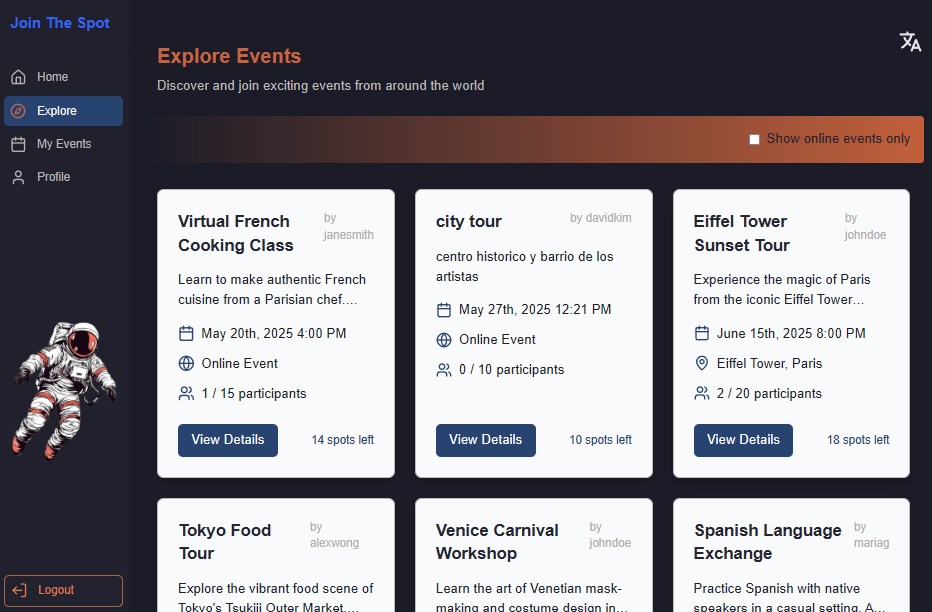
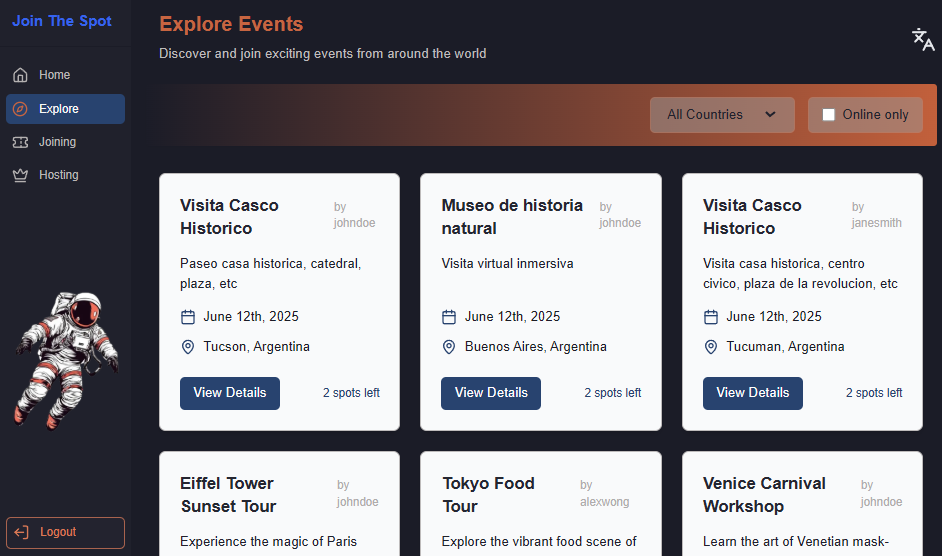
docs: update README. update screenshots. Minor title update in dashboard page.

diff --git a/src/app/api/events/my-events/route.ts b/src/app/api/events/my-events/route.ts
@@ -10,10 +10,16 @@ const getMyEventsHandler: RouteHandler<MyEventsParams> = async (
   params
 ): Promise<NextResponse<MyEventsResponse | ErrorResponse>> => {
   try {
+    // Extract query parameters from the URL
+    const { searchParams } = new URL(req.url);
+    const timeFilter = searchParams.get("timeFilter") as "all" | "future" | "past" | null;
+    const orderBy = searchParams.get("orderBy") as "asc" | "desc" | null;
+
     const events = await getEventsByCreator(userData.userId, {
-      timeFilter: params?.timeFilter || "all",
-      orderBy: params?.orderBy || "asc",
+      timeFilter: timeFilter || "all",
+      orderBy: orderBy || "asc",
     });
+
     return NextResponse.json(events);
   } catch (error) {
     console.error("Error fetching user events:", error);

diff --git a/src/app/[locale]/dashboard/page.tsx b/src/app/[locale]/dashboard/page.tsx
@@ -212,7 +212,7 @@ export default function DashboardHome() {
             <p className="text-lunar-300">Your upcoming events calendar will appear here.</p>
           </div> */}
           <div className="rounded-lg bg-space-200 p-6">
-            <h2 className="mb-4 text-xl font-semibold text-terracotta-800">Calendar Preview</h2>
+            {/* <h2 className="mb-4 text-xl font-semibold text-terracotta-800">Calendar Preview</h2> */}
             <CalendarPreview
               futureHostedEvents={futureHostedEvents}
               futureActivities={futureActivities}

diff --git a/README.md b/README.md
@@ -19,7 +19,7 @@ A modern web application built with Next.js for managing and displaying global e
 
 ### Application Screenshots
 
-#### Home Page
+#### Home Page 
 
 <div align="center">
   <img src="./public/screenshots/home.png" alt="Login Page" width="420"/>
@@ -27,7 +27,7 @@ A modern web application built with Next.js for managing and displaying global e
   <em>Landing Page</em>
 </div>
 
-#### Authentication
+#### Authentication & Registration
 
 <div align="center">
   <table>
@@ -47,6 +47,7 @@ A modern web application built with Next.js for managing and displaying global e
 </div>
 
 #### User Dashboard
+The dashboard provides users with a comprehensive overview of their event activities. 
 
 <div align="center">
   <img src="./public/screenshots/dashboard.png" alt="Dashboard" width="800"/>
@@ -54,12 +55,15 @@ A modern web application built with Next.js for managing and displaying global e
   <em>Personal Dashboard</em>
 </div>
 
-The dashboard provides users with a comprehensive overview of their event activities. Users can:
+Here users can:
 
-- ⬜View upcoming events they're attending
-- ✅ See their event hosting schedule
-- ✅ Access quick actions for event management
-- ⬜Get notifications about event updates and changes
+- ✅ View some metrics about their engagement in the application (number of past activities joined, etc).
+- ✅ View the upcoming confirmed activity in have applied.
+- ✅ View the next events they are organizing.
+- ✅ Access quick actions for the next activity or event management.
+- ✅ See their event hosting and activities schedule in calendar. 
+- ✅ Get a quick reminder of the number of future activities and events scheduled
+- ✅ Get notifications about people waiting for their confirmation.
 
 #### Explore Events
 
@@ -71,28 +75,50 @@ The dashboard provides users with a comprehensive overview of their event activi
 
 The Explore page serves as a central hub for discovering events:
 
-- 🔄 Browse all public events with advanced filtering options
-- 🔄 Search events by type: online/in-person (TODO: by location, date, or category)
-- ✅ View detailed event information
-- 🔄 Subscribe to events of interest
-- ✅ Share events with other users
-
-#### My Events
+- ✅ Browse all public events
+- ✅ Search events by type: online/in-person, by country (TO-DO: by city, date range, or category)
+- ✅ Preview event information and access the full event description.
+- ✅ Subscribe to events of interest.
+- ✅ Share events as a creator with other users.
+- ✅ precise event location and time are hidden until the participation is confirmed
 
 <div align="center">
-  <img src="./public/screenshots/my-events.png" alt="My Events" width="800"/>
+  <img src="./public/screenshots/eventDetails.png" alt="Explore Events" width="600"/>
+  <br/>
+  <em>Public Event Details View</em>
+</div>
+
+#### Joining Page
+
+<div align="center">
+  <img src="./public/screenshots/joining.png" alt="Joinig" width="800"/>
+  <br/>
+  <em>Joining Page</em>
+</div>
+
+The joining page allow the user to:
+
+- ✅ Visualize activities they have applied.
+- ✅ Visualize the application status.
+- ✅ wihdraw their application if they can no loger be present.
+- ✅ Re-apply to participation they have canceclled.
+
+#### Hosting Page
+
+<div align="center">
+  <img src="./public/screenshots/hosting.png" alt="My Events" width="800"/>
   <br/>
   <em>Event Management Center</em>
 </div>
 
-The My Events page is a dedicated space for event management:
+The Hosting page is a dedicated space for event management the user has created:
 
 - ✅ Create and publish new events
 - ✅ Edit existing event details
-- ⬜ Manage participant subscriptions
+- ✅ Manage participant subscriptions (accept or reject)
 - ✅ Handle event cancellations
-- ⬜ View event statistics and attendance
-- ⬜ Send updates to participants
+- ✅ View event applications and attendance
+- ✅ View participants who cancelled their participation
 
 ## Tech Stack
 
@@ -104,7 +130,7 @@ The My Events page is a dedicated space for event management:
 - **Authentication:** JWT + bcryptjs
 - **Testing:** Jest
 - **Linting:** ESLint + Prettier
-- **App state:** Zustand
+- **Global App state:** Zustand
 - **Forms and Validation:** Formik + Yup
 
 ## Project Structure
@@ -134,6 +160,12 @@ The My Events page is a dedicated space for event management:
 │   ├── components/         # React components
 │   ├── i18n/               # Internationalization setup
 │   ├── lib/                # Utility functions
+│   │   ├── types/          # central place for Types  
+│   │   ├── validations/    # yup validation schemas
+│   │   ├── ...             # other utility functions ...
+│   │   └── routes/         # Central endpoint strings variables 
+│   │
+│   ├── hooks/              # Custom hooks
 │   ├── metadata/           # App metadata for SEO
 │   ├── mocks/              # Mock data & templates
 │   ├── store/              # App state stores
@@ -266,7 +298,7 @@ Our CI/CD pipeline runs automatically on push to `main` and `develop` branches, 
    npm run test:coverage
    ```
 
-### Test Coverage Report
+### Test Coverage Report [TO-UPDATE]
 
 The test coverage report is generated automatically when running `npm run test:coverage`. The report includes:
 
